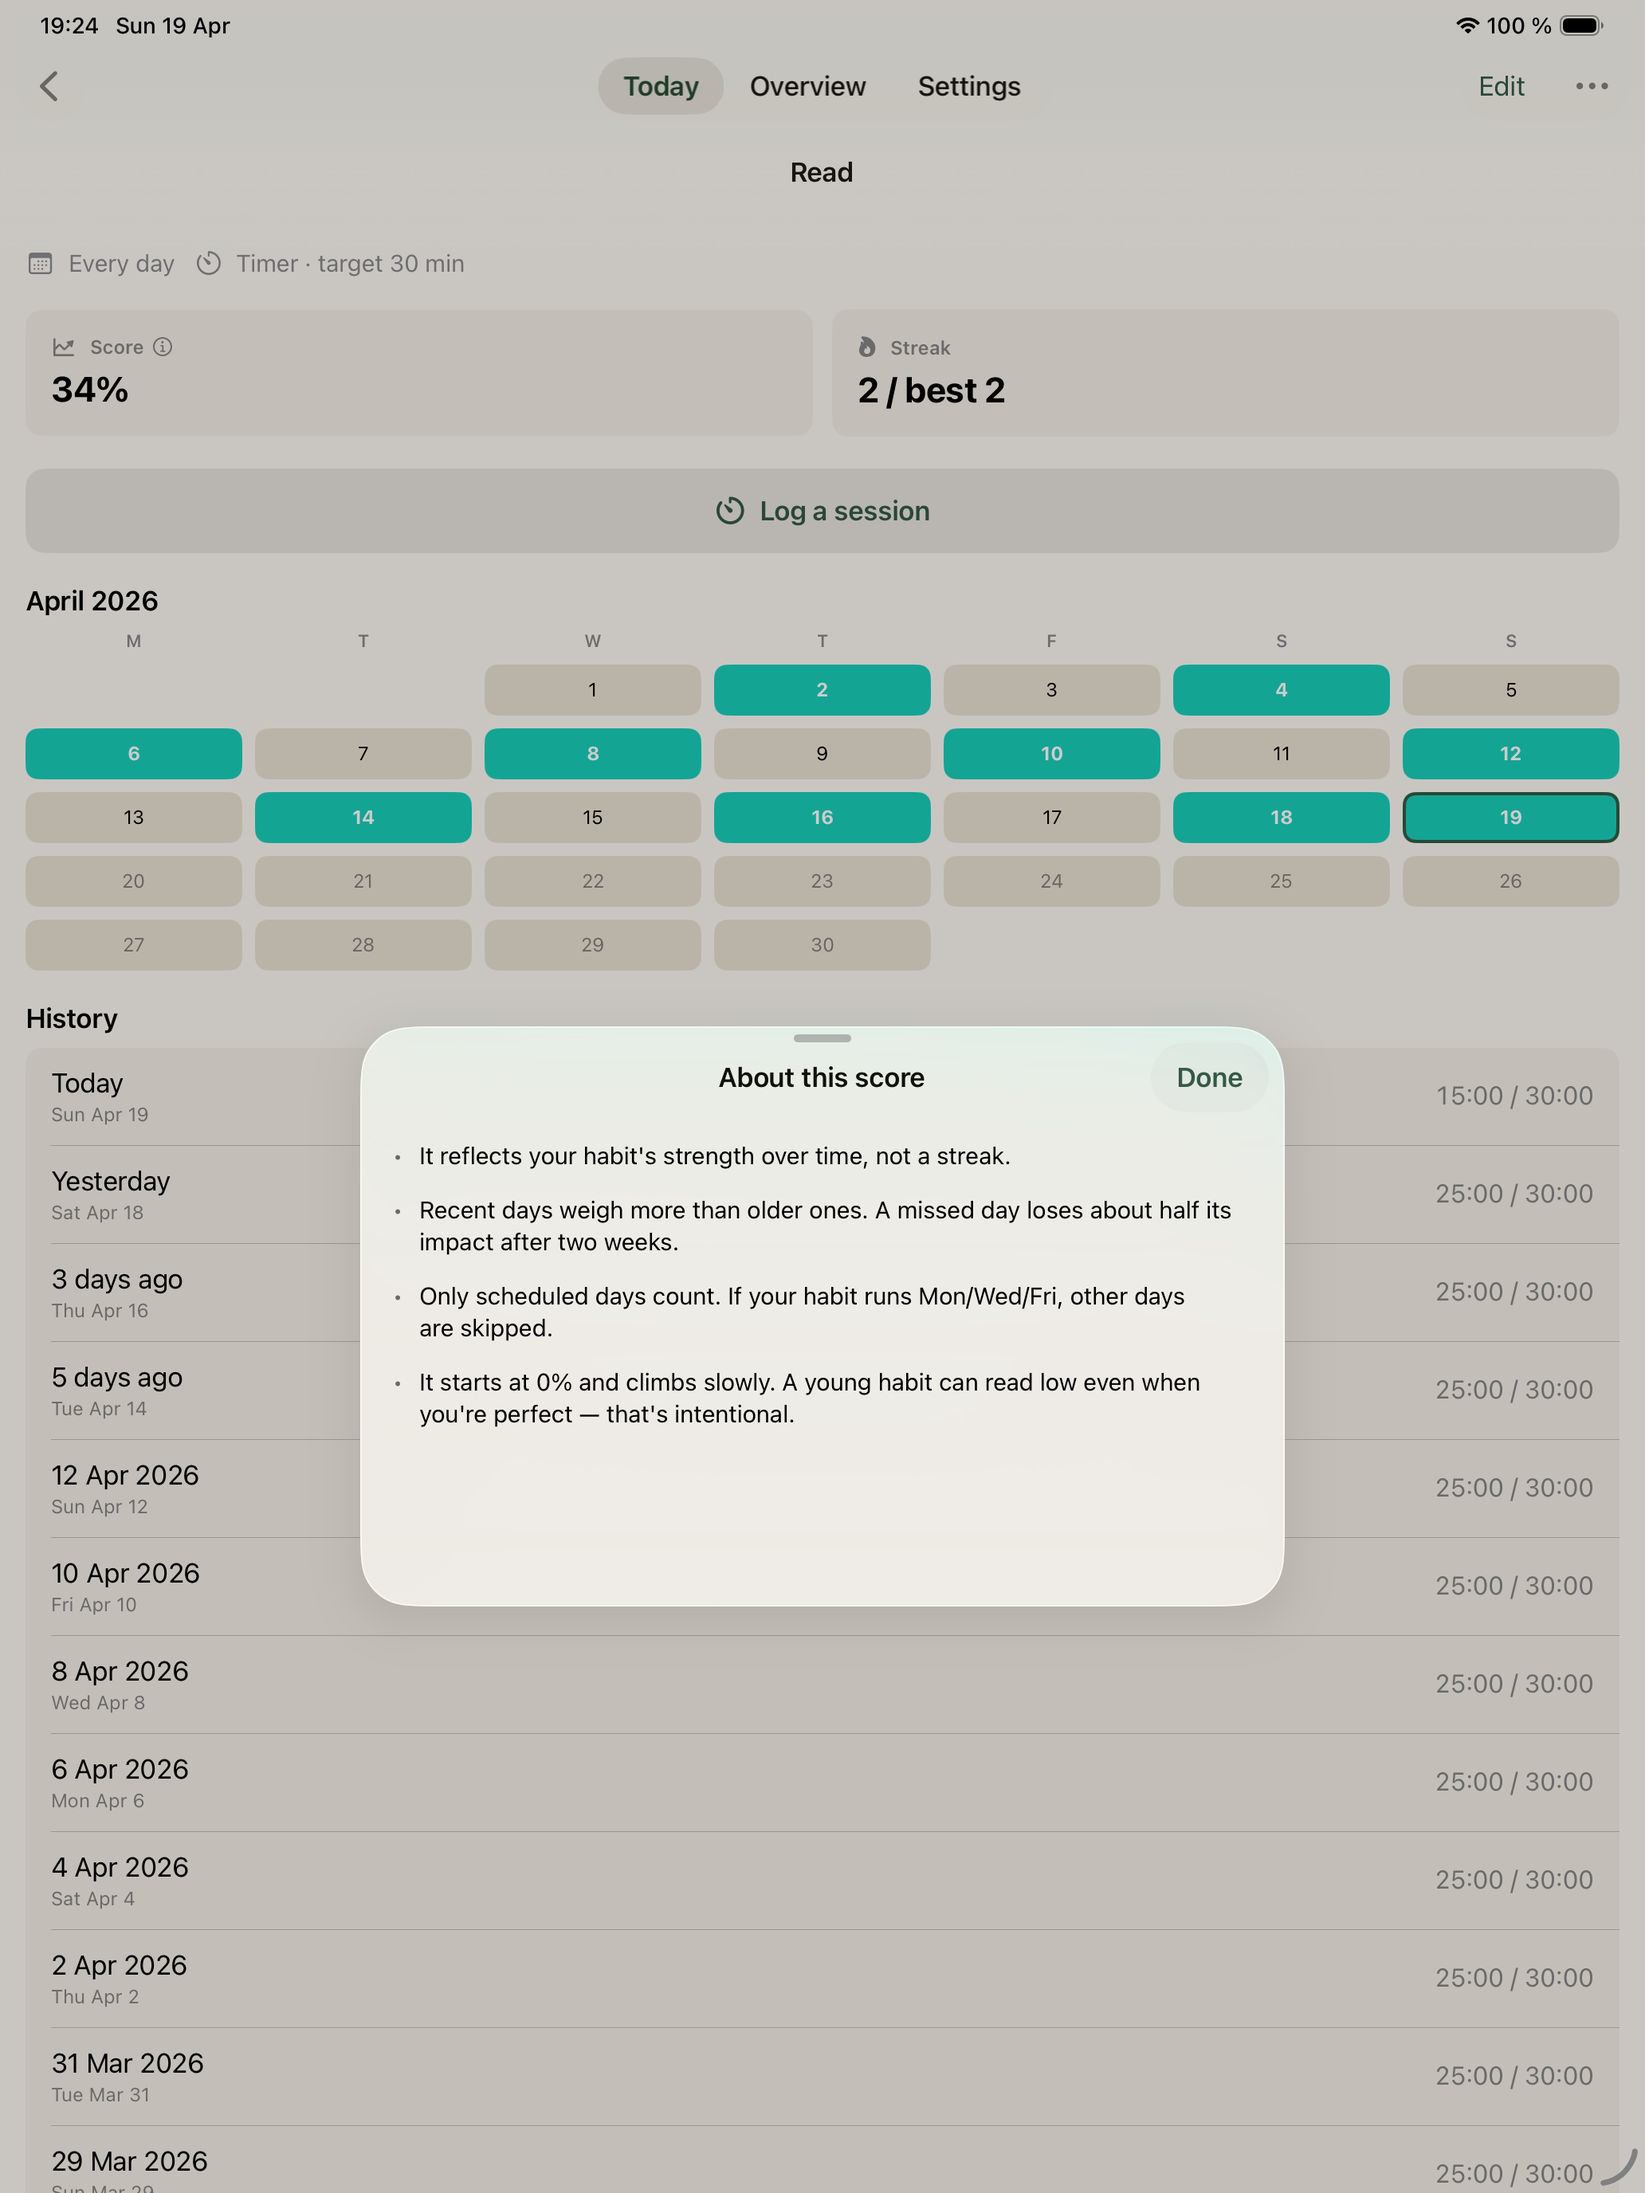
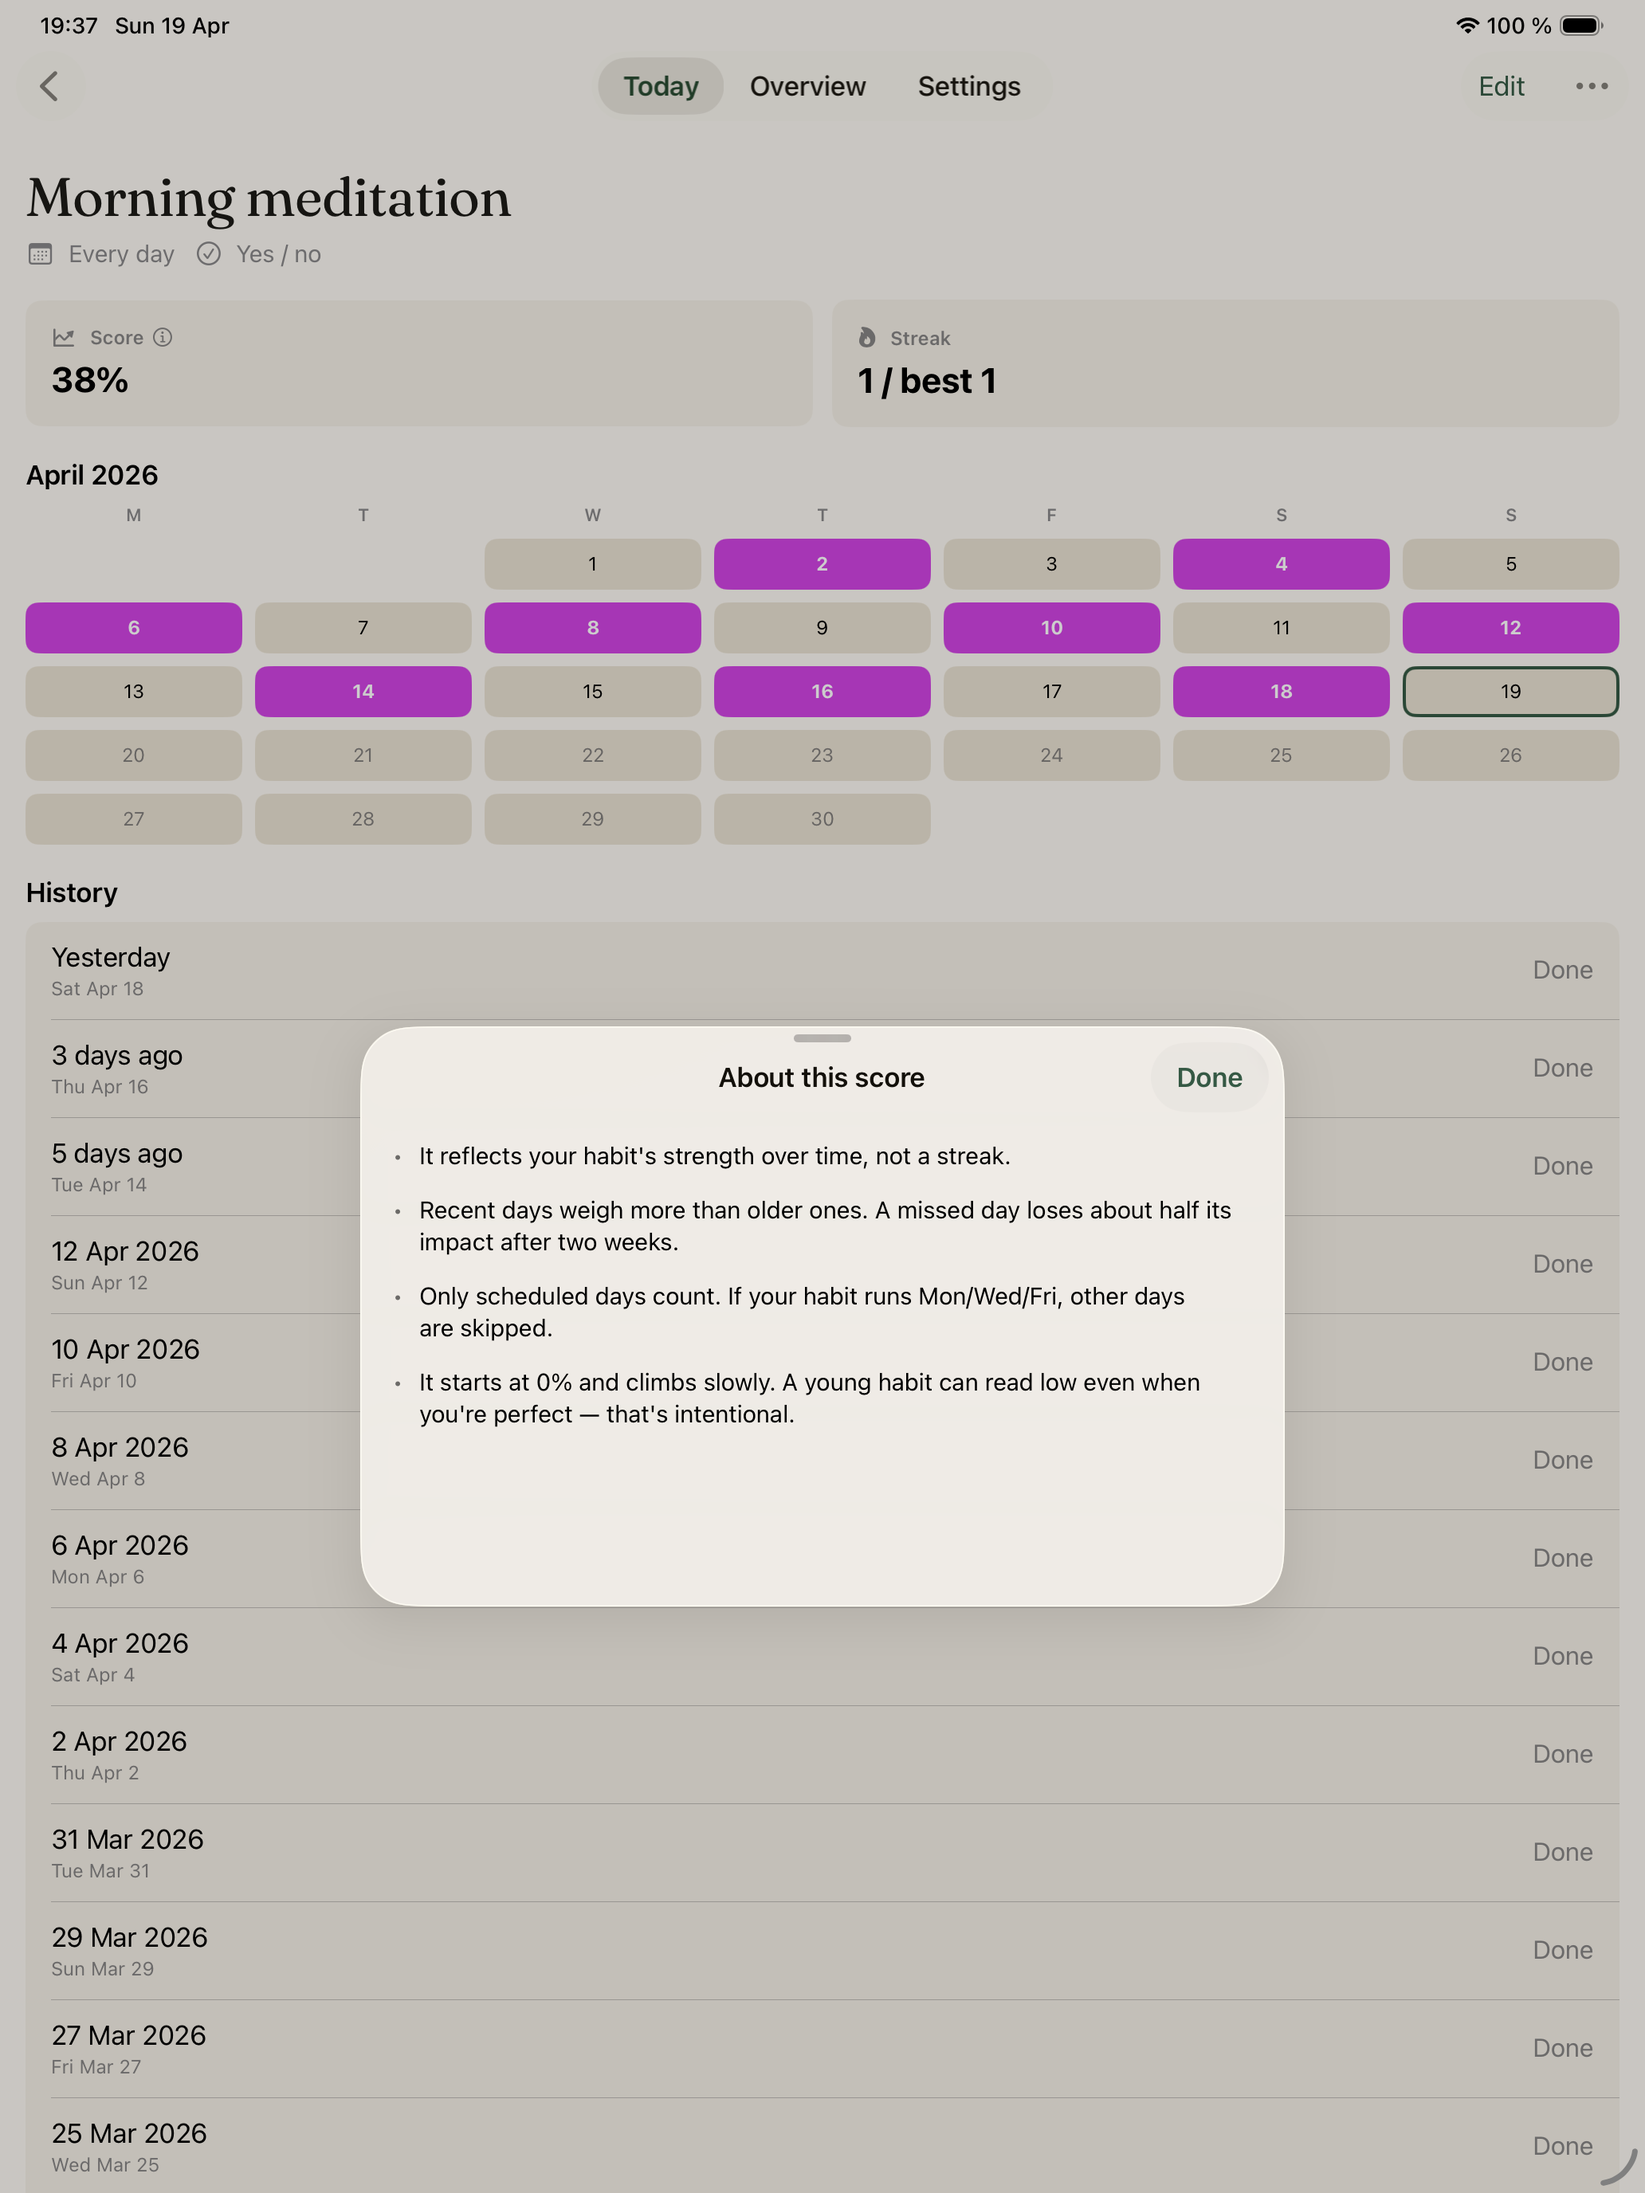
fix(habit-detail): iPad title — render Fraunces hero in content
- On iPad inside the tabbed NavigationStack, the nav bar title
  renders via a SwiftUI path that doesn't pick up
  UINavigationBarAppearance, and the floating tab pill was
  hosting a duplicate SF-rendered copy of the habit name.
- Reinstate the in-content hero (kadoDisplay, Fraunces-Regular
  34pt) so the habit name renders consistently as a serif on
  both iPhone and iPad, and force navigationTitle("") + inline
  to suppress the duplicate.
- Also set titleTextAttributes.font to Fraunces-Medium 17pt as
  a belt-and-braces override for any inline-title surfaces that
  do pick up UINavigationBarAppearance.
- Recapture iPad EN/FR screenshots against the fix.
- Bump CURRENT_PROJECT_VERSION 3 → 4.

diff --git a/Kado/Views/HabitDetail/HabitDetailView.swift b/Kado/Views/HabitDetail/HabitDetailView.swift
@@ -38,7 +38,8 @@ struct HabitDetailView: View {
         }
         .scrollContentBackground(.hidden)
         .background(Color.kadoBackground.ignoresSafeArea())
-        .navigationTitle(Text(habit.name))
+        .navigationTitle("")
+        .navigationBarTitleDisplayMode(.inline)
         .toolbar {
             ToolbarItem(placement: .primaryAction) {
                 Button(String(localized: "Edit")) {
@@ -137,6 +138,8 @@ struct HabitDetailView: View {
 
     private var header: some View {
         VStack(alignment: .leading, spacing: 6) {
+            Text(habit.name)
+                .kadoDisplay(size: 34)
             HStack(spacing: 12) {
                 Label(frequencyLabel, systemImage: frequencyIcon)
                 Label(typeLabel, systemImage: typeIcon)

diff --git a/Packages/KadoCore/Sources/KadoCore/Design/KadoThemeModifier.swift b/Packages/KadoCore/Sources/KadoCore/Design/KadoThemeModifier.swift
@@ -40,7 +40,9 @@ public struct KadoThemeModifier: ViewModifier {
             let nav = UINavigationBarAppearance()
             nav.configureWithDefaultBackground()
             nav.titleTextAttributes = [
-                .foregroundColor: UIColor(Color.kadoForeground)
+                .foregroundColor: UIColor(Color.kadoForeground),
+                .font: UIFont(name: "Fraunces-Medium", size: 17)
+                    ?? UIFont.systemFont(ofSize: 17, weight: .semibold)
             ]
             nav.largeTitleTextAttributes = [
                 .foregroundColor: UIColor(Color.kadoForeground),
